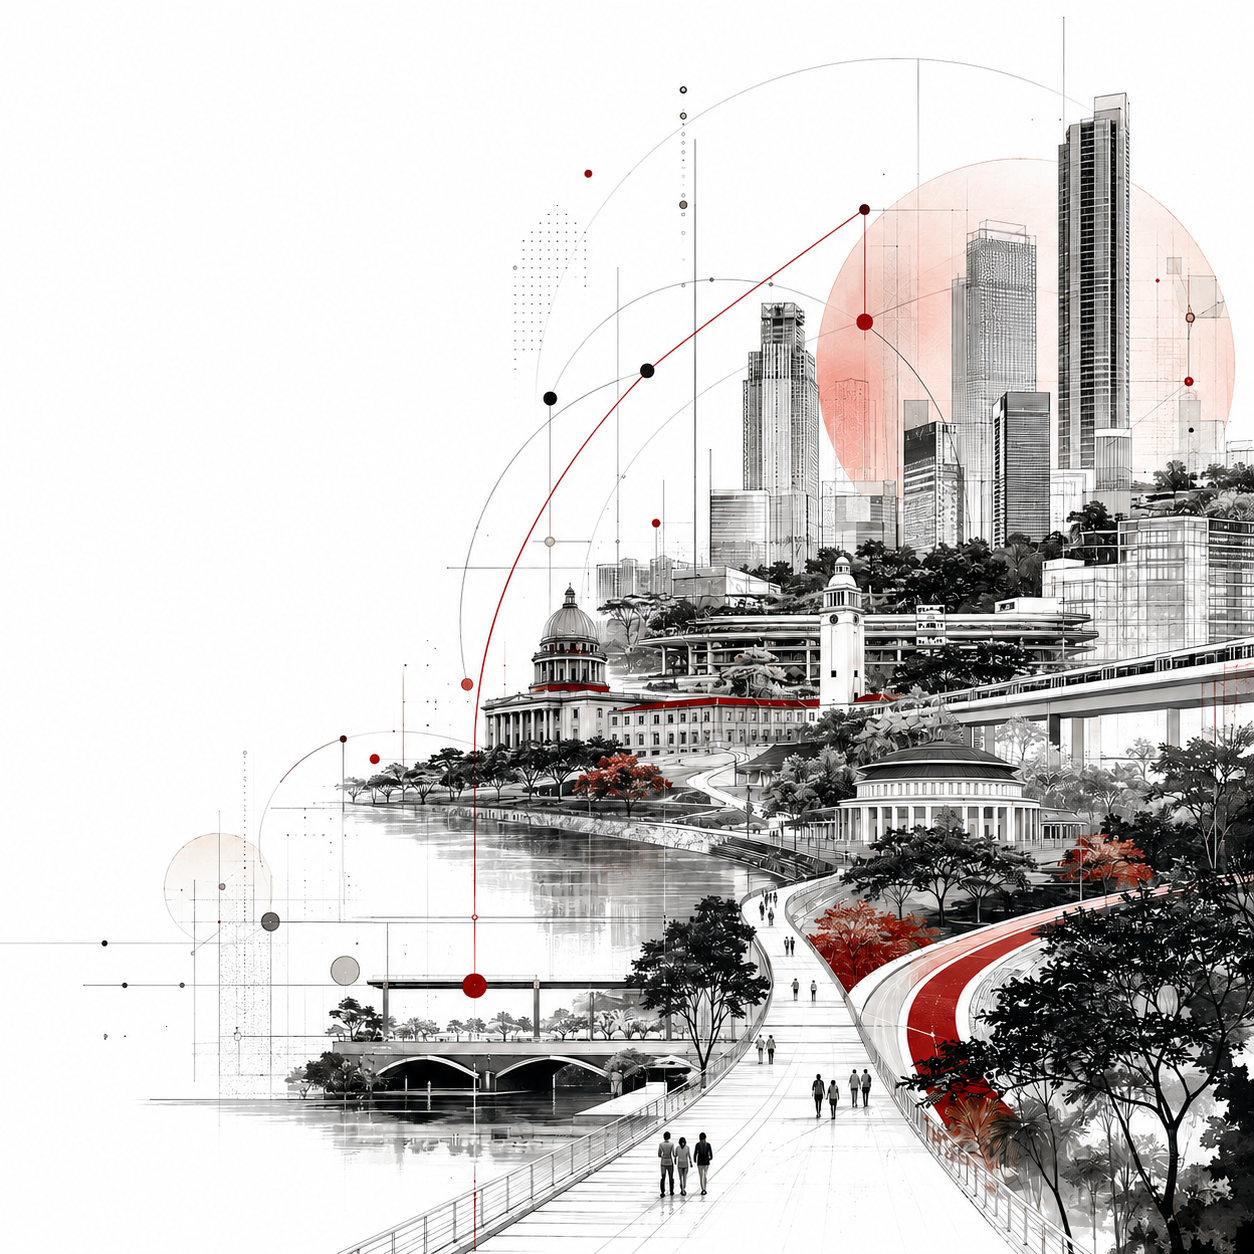
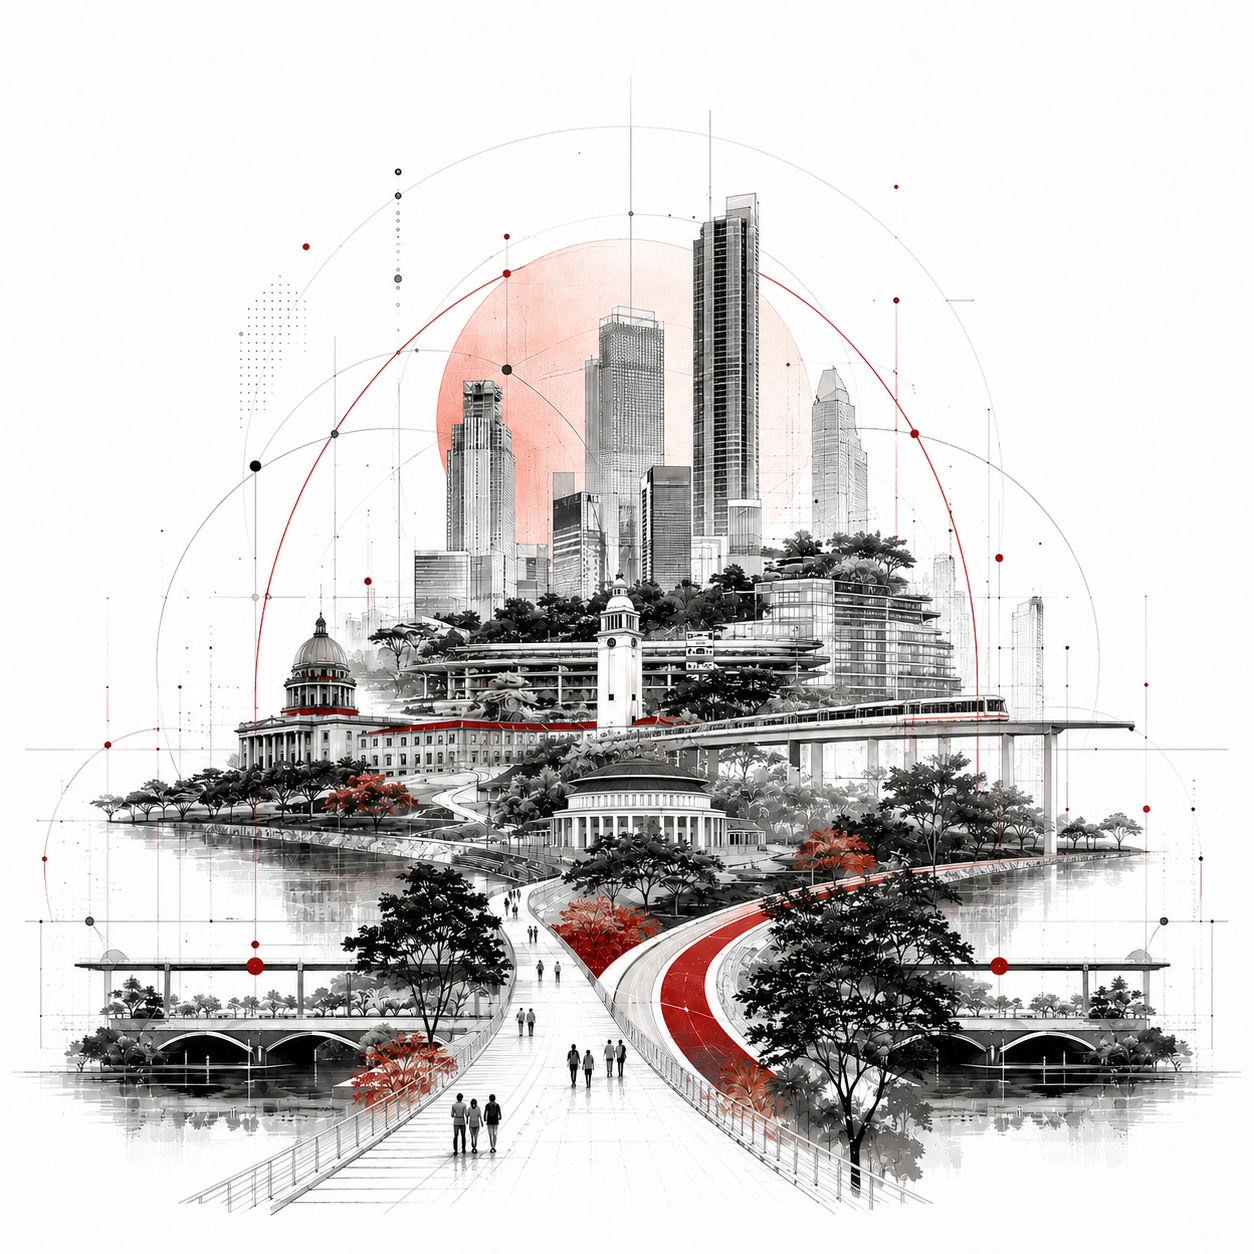
Add reusable PageHero image system and tighten homepage hero focal point
Add optional right-side hero image support to PageHero (content left,
image top-right on desktop, clean mobile stacking) and wire it onto
Learn, Apply, Teach, Ideate, Blog, Podcast, Localization Kits, Examples,
Case Studies, About, Login, and My Account. Tighten the homepage hero
for a stronger focal point and more intentional whitespace.

diff --git a/src/components/PageHero.tsx b/src/components/PageHero.tsx
@@ -1,3 +1,5 @@
+import Image from 'next/image'
+
 interface PageHeroProps {
   title: string
   eyebrow?: string
@@ -5,6 +7,12 @@ interface PageHeroProps {
   align?: 'left' | 'center'
   variant?: 'light' | 'dark' | 'red' | 'warm'
   className?: string
+  /** Optional right-side hero image (16:9, white background). When set, the hero
+   *  switches to a split layout: content left, image top-right/right. */
+  image?: string
+  imageAlt?: string
+  /** Pass true for above-the-fold heroes to prioritise the image load. */
+  priority?: boolean
 }
 
 const variantStyles = {
@@ -45,32 +53,68 @@ export default function PageHero({
   align = 'left',
   variant = 'light',
   className = '',
+  image,
+  imageAlt = '',
+  priority = false,
 }: PageHeroProps) {
   const v = variantStyles[variant]
-  const alignment = align === 'center' ? 'text-center mx-auto' : 'text-left'
-  const ruleMargin = align === 'center' ? 'mx-auto' : ''
+  const hasImage = Boolean(image)
+  // A side image only reads well with left-aligned content.
+  const effectiveAlign = hasImage ? 'left' : align
+  const alignment = effectiveAlign === 'center' ? 'text-center' : 'text-left'
+  const ruleMargin = effectiveAlign === 'center' ? 'mx-auto' : ''
+
+  const content = (
+    <div
+      className={`${alignment} ${
+        hasImage ? '' : `max-w-3xl ${effectiveAlign === 'center' ? 'mx-auto' : ''}`
+      }`}
+    >
+      {eyebrow && (
+        <p className={`${v.eyebrow} text-[11px] font-bold tracking-[0.16em] uppercase mb-5`}>
+          {eyebrow}
+        </p>
+      )}
+      <h1
+        className={`${v.title} text-3xl sm:text-4xl md:text-[44px] lg:text-5xl font-bold leading-[1.12] tracking-[-0.01em]`}
+      >
+        {title}
+      </h1>
+      <span className={`${v.rule} ${ruleMargin} block w-12 h-[3px] rounded-full mt-7`} aria-hidden="true" />
+      {description && (
+        <p
+          className={`${v.desc} text-[16px] md:text-[18px] leading-[1.7] mt-7 max-w-2xl ${
+            effectiveAlign === 'center' ? 'mx-auto' : ''
+          }`}
+        >
+          {description}
+        </p>
+      )}
+    </div>
+  )
 
   return (
     <section className={`${v.bg} ${className}`}>
       <div className="max-w-7xl mx-auto px-5 sm:px-6 lg:px-8 py-16 sm:py-20 md:py-24 lg:py-28">
-        <div className={`${alignment} max-w-3xl ${align === 'center' ? 'mx-auto' : ''}`}>
-          {eyebrow && (
-            <p className={`${v.eyebrow} text-[11px] font-bold tracking-[0.16em] uppercase mb-5`}>
-              {eyebrow}
-            </p>
-          )}
-          <h1
-            className={`${v.title} text-3xl sm:text-4xl md:text-[44px] lg:text-5xl font-bold leading-[1.12] tracking-[-0.01em]`}
-          >
-            {title}
-          </h1>
-          <span className={`${v.rule} ${ruleMargin} block w-12 h-[3px] rounded-full mt-7`} aria-hidden="true" />
-          {description && (
-            <p className={`${v.desc} text-[16px] md:text-[18px] leading-[1.7] mt-7 max-w-2xl ${align === 'center' ? 'mx-auto' : ''}`}>
-              {description}
-            </p>
-          )}
-        </div>
+        {hasImage ? (
+          <div className="grid grid-cols-1 lg:grid-cols-12 gap-10 lg:gap-14 items-center">
+            <div className="lg:col-span-6 order-2 lg:order-1">{content}</div>
+            <div className="lg:col-span-6 order-1 lg:order-2">
+              <div className="relative mx-auto lg:ml-auto w-full max-w-[440px] sm:max-w-[500px] lg:max-w-[560px] aspect-[16/9]">
+                <Image
+                  src={image as string}
+                  alt={imageAlt}
+                  fill
+                  sizes="(min-width: 1024px) 560px, (min-width: 640px) 500px, 100vw"
+                  className="object-contain"
+                  priority={priority}
+                />
+              </div>
+            </div>
+          </div>
+        ) : (
+          content
+        )}
       </div>
     </section>
   )

diff --git a/src/app/ideate/IdeateClient.tsx b/src/app/ideate/IdeateClient.tsx
@@ -2,6 +2,8 @@
 
 import { useEffect, useRef, useState } from 'react'
 
+import PageHero from '@/components/PageHero'
+
 const ASSISTANT_URL =
   'https://sg-way-ai-agent.up.railway.app/frontend/ai-agent.html?embed=true&hide_header=true'
 
@@ -40,21 +42,16 @@ export default function IdeateClient() {
 
   return (
     <div className="bg-white">
-      {/* Compact header — keep editorial framing, hand most height to the iframe */}
-      <section className="bg-[#fbf5f2] border-b border-[#ECECEC]">
-        <div className="max-w-7xl mx-auto px-5 sm:px-6 lg:px-8 py-10 sm:py-14">
-          <div className="max-w-3xl">
-            <p className="eyebrow mb-4">Ideate</p>
-            <h1 className="text-3xl sm:text-4xl md:text-[44px] font-bold text-[#111111] leading-[1.12] tracking-[-0.01em] mb-5">
-              The Singapore Way Assistant
-            </h1>
-            <span className="editorial-rule mb-5" aria-hidden="true" />
-            <p className="text-[16px] md:text-[18px] text-[#555555] leading-[1.7] max-w-2xl">
-              Strategic analysis and consulting powered by Singapore's proven principles. Describe your challenge, attach context, and explore tailored recommendations.
-            </p>
-          </div>
-        </div>
-      </section>
+      <PageHero
+        eyebrow="Ideate"
+        title="The Singapore Way Assistant"
+        description="Strategic analysis and consulting powered by Singapore's proven principles. Describe your challenge, attach context, and explore tailored recommendations."
+        align="left"
+        variant="light"
+        image="/assets/home/ideate-card.png"
+        imageAlt="Editorial illustration representing ideating with The Singapore Way assistant"
+        priority
+      />
 
       {/* Iframe container */}
       <section className="bg-[#F5F5F5] py-8 md:py-12 border-t border-[#ECECEC]">

diff --git a/src/app/page.tsx b/src/app/page.tsx
@@ -48,8 +48,8 @@ export default function Page() {
 
       {/* Hero */}
       <section className="bg-white pt-16 pb-14 sm:pt-20 sm:pb-20 lg:pt-24 lg:pb-28">
-        <div className="max-w-7xl mx-auto px-5 sm:px-6 lg:px-8">
-          <div className="grid grid-cols-1 lg:grid-cols-12 gap-10 lg:gap-12 items-center">
+        <div className="max-w-6xl mx-auto px-5 sm:px-6 lg:px-8">
+          <div className="grid grid-cols-1 lg:grid-cols-12 gap-10 lg:gap-16 items-center">
             <div className="lg:col-span-6 order-2 lg:order-1 text-center lg:text-left">
               <h1 className="text-4xl sm:text-5xl lg:text-6xl font-bold text-[#111111] leading-[1.08] tracking-[-0.01em] mb-6">
                 The Singapore Way
@@ -69,12 +69,12 @@ export default function Page() {
               </Link>
             </div>
             <div className="lg:col-span-6 order-1 lg:order-2">
-              <div className="relative mx-auto w-full max-w-[480px] sm:max-w-[580px] lg:max-w-[640px] aspect-square">
+              <div className="relative mx-auto lg:ml-auto w-full max-w-[440px] sm:max-w-[520px] lg:max-w-[560px] aspect-square">
                 <Image
                   src="/assets/home/Hero%20-%20The%20Singapore%20Way.png"
                   alt="The Singapore Way hero illustration"
                   fill
-                  sizes="(min-width: 1024px) 640px, (min-width: 640px) 580px, 100vw"
+                  sizes="(min-width: 1024px) 560px, (min-width: 640px) 520px, 100vw"
                   className="object-contain"
                   priority
                 />

diff --git a/src/app/localization-kits/LocalizationKitsClient.tsx b/src/app/localization-kits/LocalizationKitsClient.tsx
@@ -69,6 +69,9 @@ export default function LocalizationKitsClient() {
         description="Each kit breaks down a principle from The Singapore Way and re-tasks it for your local reality — whether you're redesigning housing policy, education, or governance."
         align="left"
         variant="light"
+        image="/assets/apply/localization-kits.png"
+        imageAlt="Editorial illustration representing The Singapore Way localization kits"
+        priority
       />
 
       <section className="py-14 md:py-20 bg-[#F5F5F5] border-t border-[#ECECEC]">

diff --git a/src/app/possibilities/PossibilitiesClient.tsx b/src/app/possibilities/PossibilitiesClient.tsx
@@ -39,6 +39,9 @@ export default function PossibilitiesClient() {
         description="Illustrative use cases showing how communities adapt The Singapore Way to address challenges across cities, ministries, and public systems."
         align="left"
         variant="light"
+        image="/assets/apply/examples.png"
+        imageAlt="Editorial illustration representing examples of The Singapore Way in practice"
+        priority
       />
 
       <section className="py-14 md:py-20 bg-[#F5F5F5] border-t border-[#ECECEC]">

diff --git a/src/app/apply/page.tsx b/src/app/apply/page.tsx
@@ -39,6 +39,9 @@ export default function ApplyPage() {
         description="Kits and case studies designed for adaptation, not imitation — built to be tailored to your own context, sector, and constraints."
         align="left"
         variant="light"
+        image="/assets/home/apply-card.png"
+        imageAlt="Editorial illustration representing applying The Singapore Way to your own context"
+        priority
       />
 
       <section className="py-16 md:py-24 bg-[#F5F5F5] border-t border-[#ECECEC]">

diff --git a/src/app/teach/page.tsx b/src/app/teach/page.tsx
@@ -21,6 +21,9 @@ export default function TeachPage() {
         description="Seventeen case studies, ready for the classroom, the boardroom, and policy briefings — built around the systems behind Singapore's rise."
         align="left"
         variant="light"
+        image="/assets/home/teach-card.png"
+        imageAlt="Editorial illustration representing teaching with proven principles"
+        priority
       />
 
       <section className="py-16 md:py-24 bg-[#F5F5F5] border-t border-[#ECECEC]">

diff --git a/src/app/teaching-materials/TeachingMaterialsClient.tsx b/src/app/teaching-materials/TeachingMaterialsClient.tsx
@@ -578,6 +578,9 @@ export default function TeachingMaterialsClient() {
         description="Seventeen case studies that bring the book to life — in classrooms, policy circles, and national strategy discussions."
         align="left"
         variant="light"
+        image="/assets/teach/case-studies.png"
+        imageAlt="Editorial illustration representing The Singapore Way case studies"
+        priority
       />
 
       <section className="py-12 md:py-16 bg-[#F5F5F5] border-t border-[#ECECEC]">

diff --git a/src/app/login/page.tsx b/src/app/login/page.tsx
@@ -46,6 +46,9 @@ export default async function LoginPage({ searchParams }: LoginPageProps) {
         title="Sign in"
         description="Sign in to access your account."
         variant="light"
+        image="/assets/auth/login-hero.png"
+        imageAlt="Editorial illustration representing The Singapore Way account access"
+        priority
       />
       <section className="bg-[#F5F5F5] border-t border-[#ECECEC] py-14 md:py-20">
         <div className="max-w-md mx-auto px-5 sm:px-6 lg:px-8">

diff --git a/src/app/learn/page.tsx b/src/app/learn/page.tsx
@@ -46,6 +46,9 @@ export default function LearnPage() {
         description="Course, podcast, and blog — three ways into the framework. Pick the format that fits how you learn best."
         align="left"
         variant="light"
+        image="/assets/home/learn-card.png"
+        imageAlt="Editorial illustration representing learning the foundations behind Singapore's success"
+        priority
       />
 
       <section className="py-16 md:py-24 bg-[#F5F5F5] border-t border-[#ECECEC]">

diff --git a/src/app/account/page.tsx b/src/app/account/page.tsx
@@ -38,6 +38,9 @@ export default async function AccountPage() {
         title="Your account"
         description="You are signed in."
         variant="light"
+        image="/assets/account/my-account-hero.png"
+        imageAlt="Editorial illustration representing your Singapore Way account"
+        priority
       />
       <section className="bg-[#F5F5F5] border-t border-[#ECECEC] py-14 md:py-20">
         <div className="max-w-md mx-auto px-5 sm:px-6 lg:px-8">

diff --git a/src/app/about/page.tsx b/src/app/about/page.tsx
@@ -21,6 +21,9 @@ export default function AboutPage() {
         description="We translate Singapore's principles into practical tools that change-makers across the Global Majority can adapt to their own context."
         align="left"
         variant="light"
+        image="/assets/about/about-hero.png"
+        imageAlt="Editorial illustration representing The Singapore Way as a method, not a miracle"
+        priority
       />
 
       {/* About the Author */}
